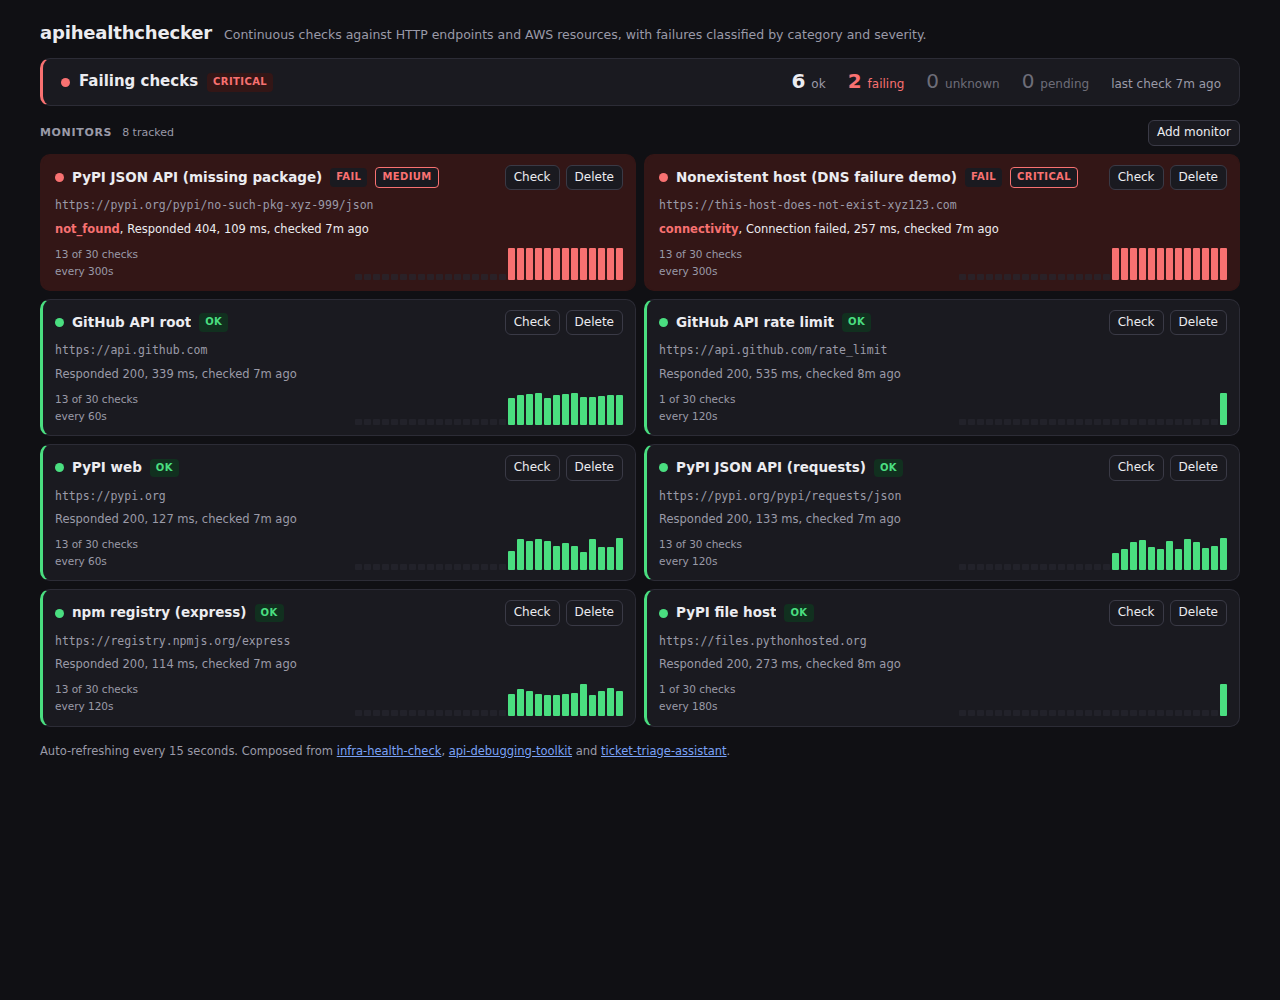
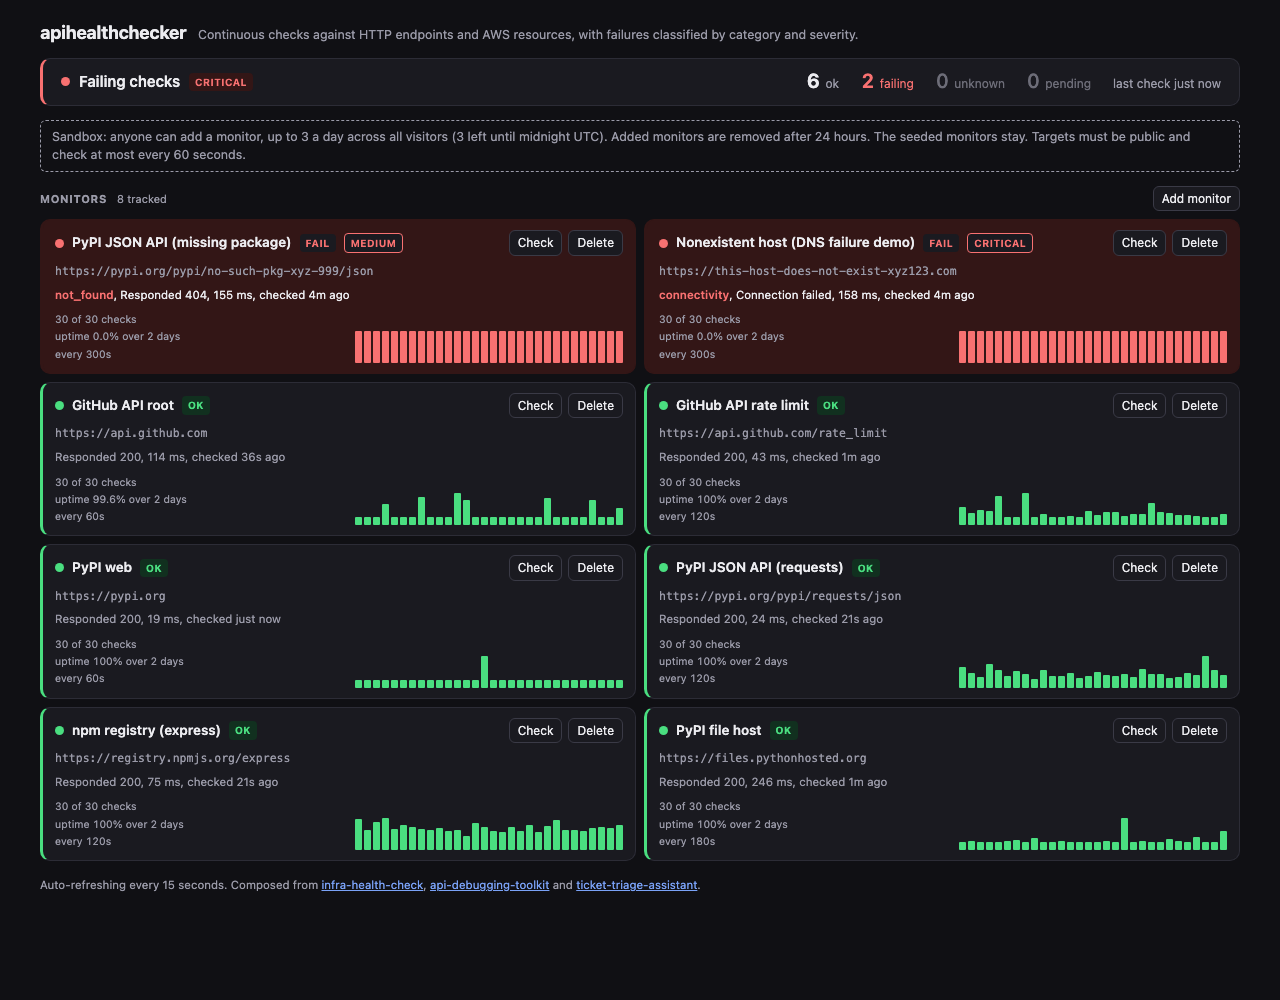
Refresh the status page screenshots
Captured from the live demo after sandbox mode and uptime shipped, at the
same 1280x1000 as before, light and dark.

diff --git a/README.md b/README.md
@@ -17,8 +17,10 @@ by visitors, so the demo stays the way it is shown here.
 The status page above is a real run against live endpoints: six healthy public
 APIs, one genuine 404 (a PyPI package that does not exist), and one DNS failure
 (a host that does not resolve). The two failures are classified automatically,
-`medium / not_found` and `critical / connectivity`, and each monitor keeps a
-rolling history strip where bar height encodes latency. A dark variant is at
+`medium / not_found` and `critical / connectivity`. Each monitor keeps a
+rolling history strip where bar height encodes latency, and an uptime figure
+over the days it has data for. The note above the list is sandbox mode
+explaining its rules to a visitor. A dark variant is at
 [docs/screenshot-dark.png](docs/screenshot-dark.png).
 
 The pitch: three earlier repos each do one thing well and stop at the edge of
